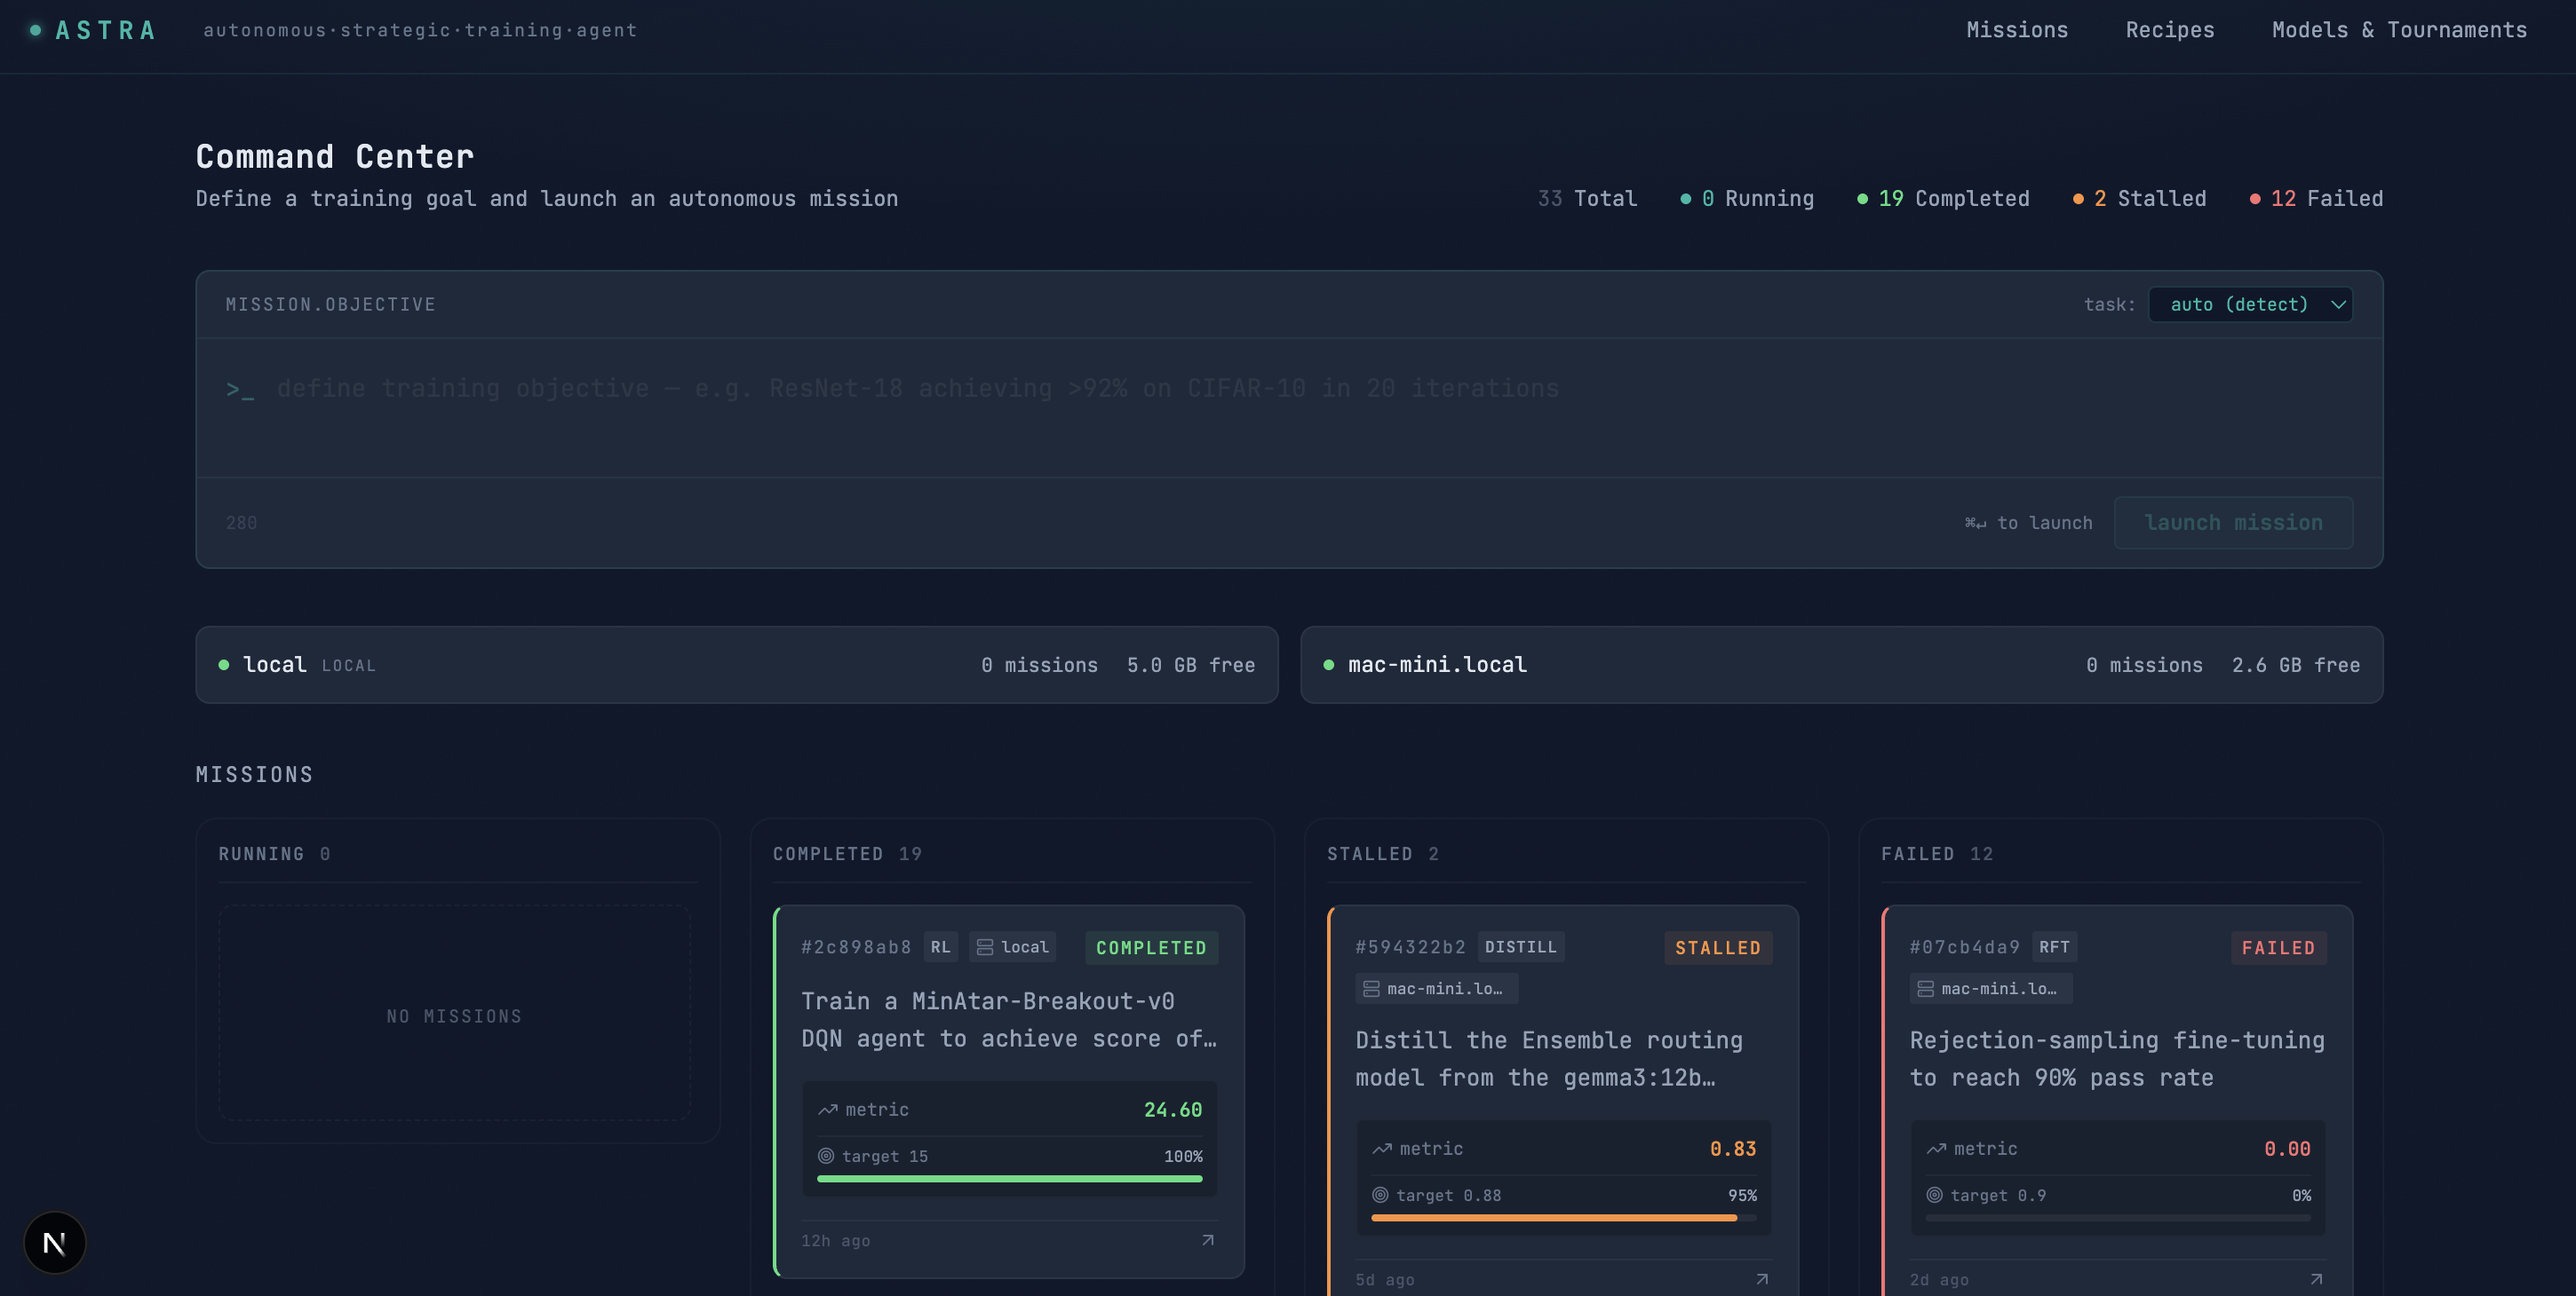
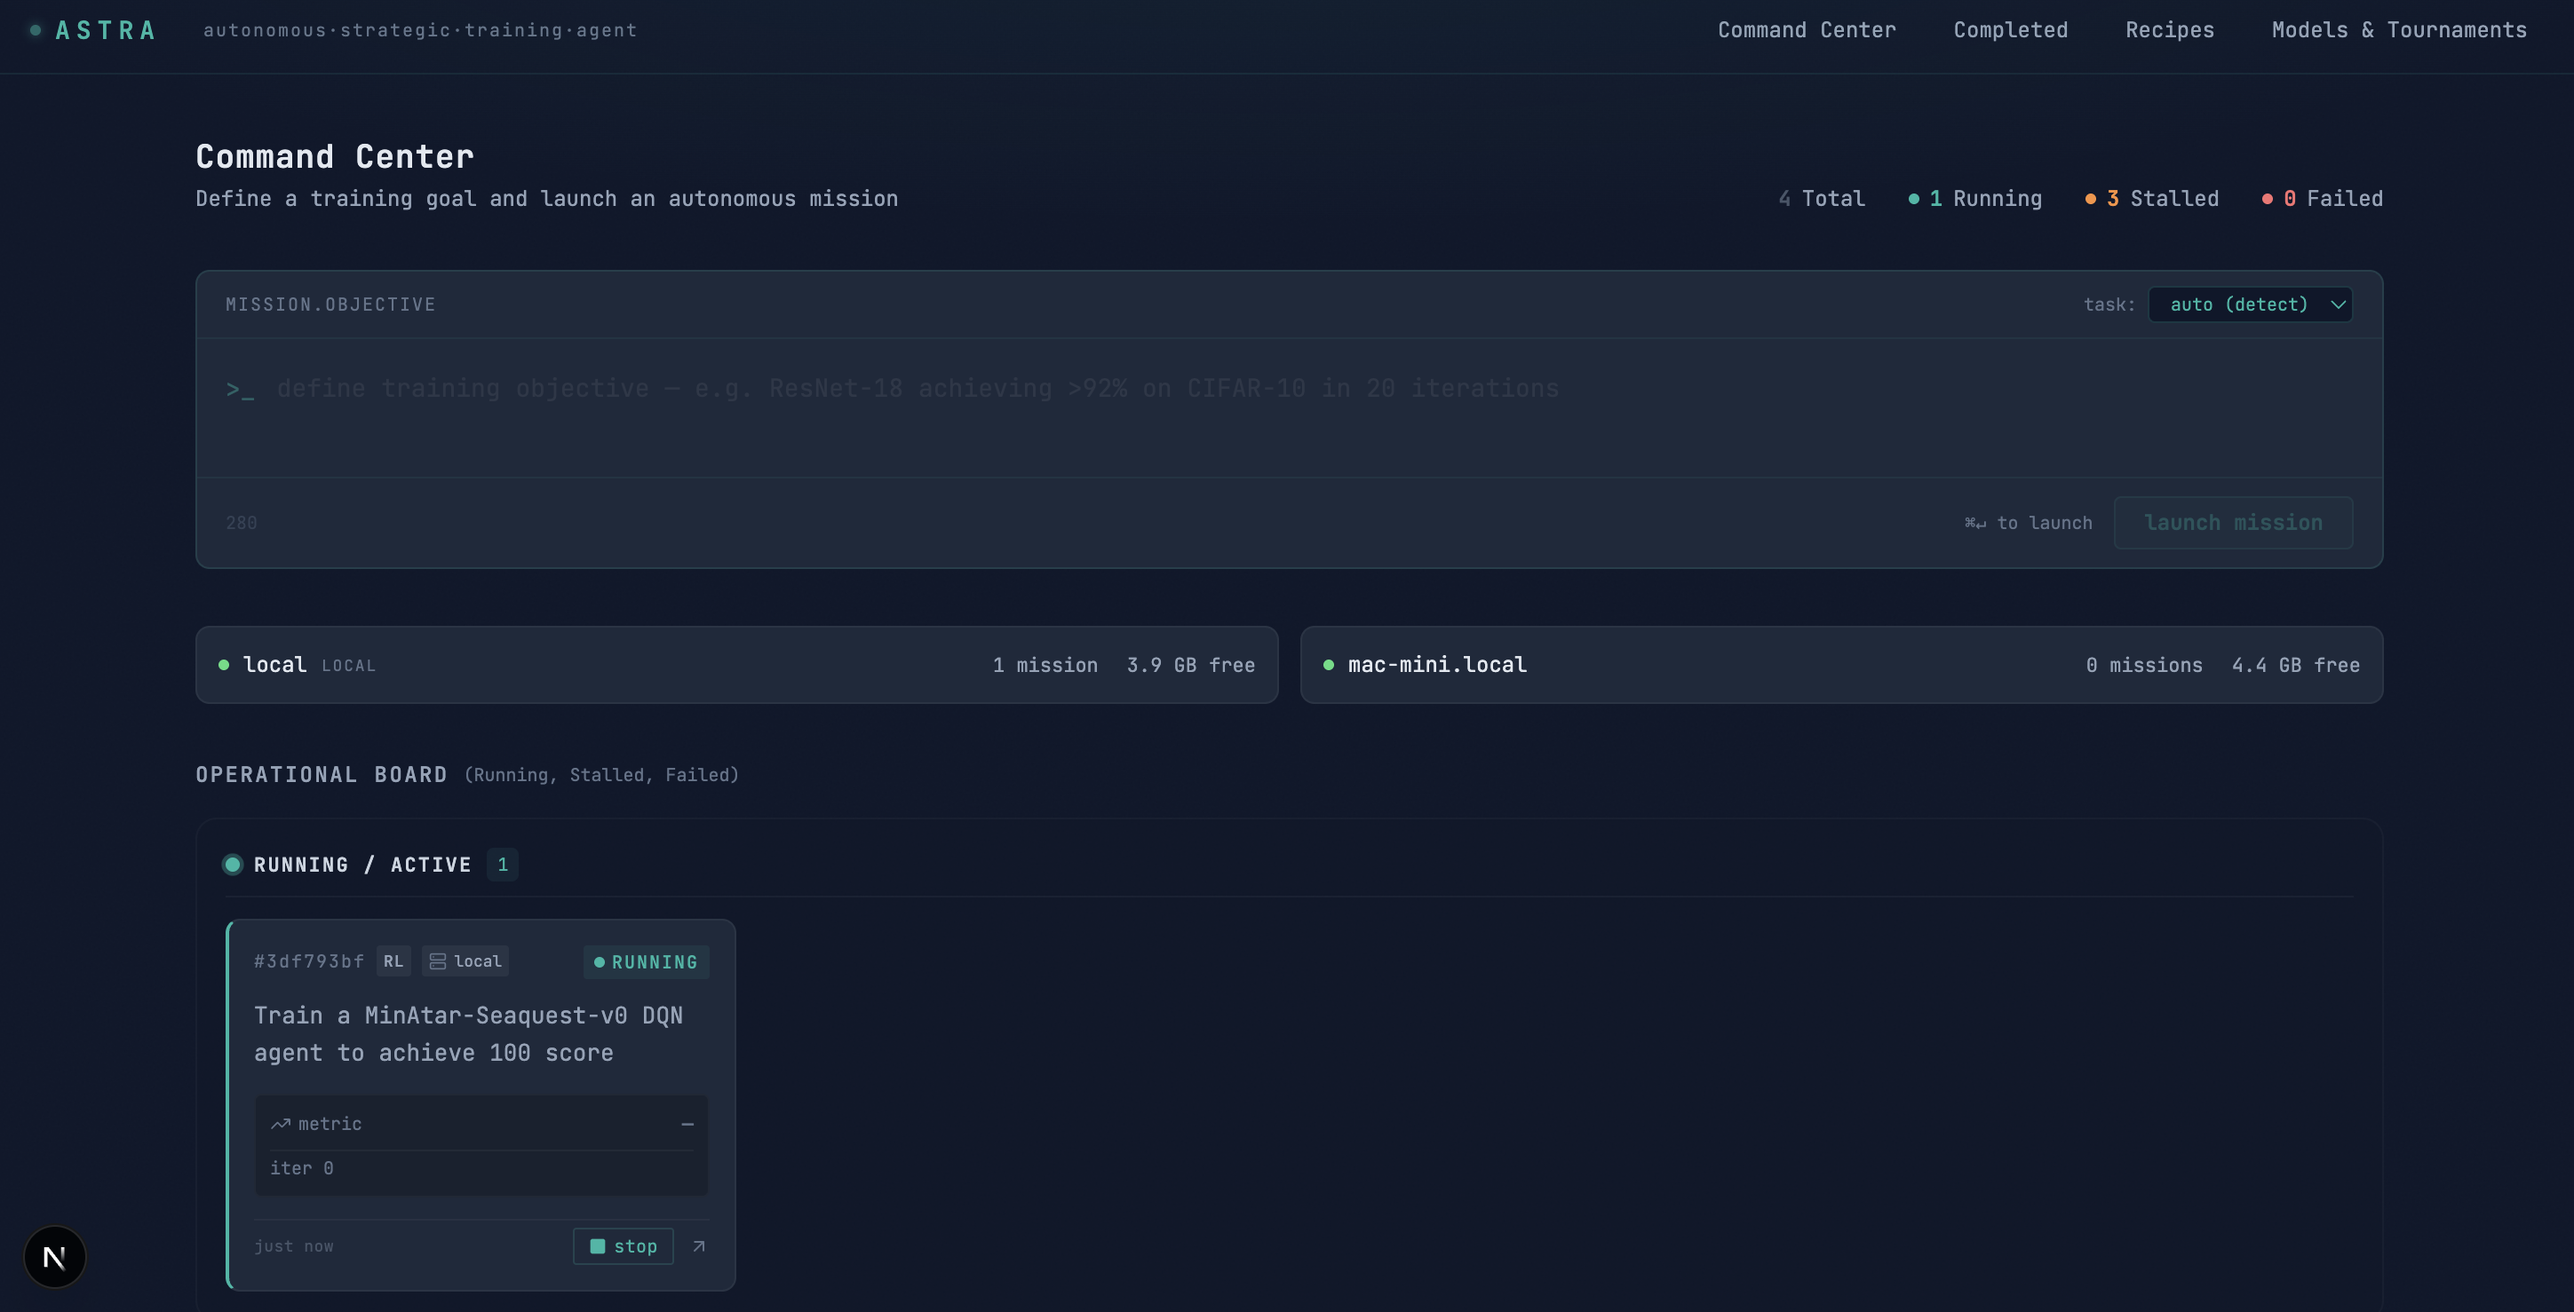
Update Command Center screenshot and synchronize documentation
- Updated docs/screenshots/command_center.png reflecting the new row-based Operational Board.
- Updated README.md feature list with the dedicated Completed Missions Archive & Proof Verification, revised screenshot caption, and updated unit test count to 1,116.
- Updated docs/UX_SPEC.md with Section 2.1 row-based Operational Board specification and Section 2.5 Completed Missions Archive.
- Updated docs/PRD.md with Section 4.22 specifying the Completed Missions Archive and Operational Board layout.

diff --git a/docs/UX_SPEC.md b/docs/UX_SPEC.md
@@ -13,8 +13,12 @@
 
 ### 2.1. The "Command Center" (Home)
 - **Goal Input**: A plain-text input bar for the training goal (e.g. "Train a Snake-v0 PPO agent to achieve mean_reward of 200") paired with a task type selector (`auto (detect)`, `rft`, `distill`, `dpo`, `grpo`, `prompt`, `rl`, `sft`, `ml`, `mlx_lora`). In `auto` mode, the task type is semantically inferred from keywords in the goal text, and backend reconciliation ensures that submitted defaults never misdirect fine-tuning or distillation missions into RL.
-- **Active Missions**: A grid of training-loop cards with status badges (Planning, Running, Evaluating, Completed, Failed, Stalled — converged below target, escalation exhausted). Each card shows the best metric value, current iteration, and its compute node. Cards are grouped into labelled sections in order — **Running** (any non-terminal status), **Failed**, **Stalled**, **Completed** — each with a count; empty sections are hidden; newest-first within each group.
-- **Global Metrics**: A stat row — Total, then Running / Failed / Stalled / Completed mission counts (same order as the card sections).
+- **Operational Board**: A row-based layout of active training-loop cards organized into full-width horizontal sections in workflow priority order:
+  - **Running / Active** (teal indicator with live pulse animation when runs are active; displays a subtle compact indicator when 0 runs are in-flight).
+  - **Stalled / Paused** (orange indicator; rendered dynamically when stalled runs exist, hidden when 0).
+  - **Failed** (red indicator; rendered dynamically when failed runs exist, hidden when 0).
+  Within each active row, missions are arranged in a responsive grid (`grid-cols-1 sm:grid-cols-2 lg:grid-cols-3 xl:grid-cols-4`). Historical completed runs are cleanly moved to the dedicated Completed Missions Archive (`/completed`) to preserve operational clarity.
+- **Global Metrics**: A top-right stat row showing active operational counts: `Total`, `Running`, `Stalled`, and `Failed`.
 
 ### 2.2. Live Training HUD (The "Loop" View)
 - **The Metric Gap**: An arc gauge showing the all-time best metric value. Gap (`−X to close`) and percentage of target sit directly below the arc. For lower-is-better metrics (`eval_loss`, `train_loss`, `perplexity`), the component computes progress inversely (tracking loss reduction toward the target threshold), showing positive convergence progress rather than inverted percentages. If `target_metric` was not explicitly extracted at mission creation, the component extracts the target percentage directly from the mission goal string rather than falling back to an arbitrary constant. Right column shows two lines: "best at iter N" (which iteration achieved the peak) and the current iteration's score when it differs from the best. This makes it unambiguous whether the displayed score is the historical peak or the latest result.
@@ -40,6 +44,15 @@
   - Side-by-side simulation evaluating SB3 and Lookahead PyTorch models on identical seeds.
   - Dynamic Leaderboard displaying Gold 🥇, Silver 🥈, and Bronze 🥉 ranks, Mean Score $\pm$ Std, Min/Max range, Win Rate %, and per-episode score breakdowns.
   - "Crown as Champion" action promoting top performers into production status.
+
+### 2.5. The Completed Missions Archive (`/completed`)
+- **Gallery Layout**: Modeled after the Recipe Library (`/recipes`) with dark glass UI, KPI overview cards, and responsive 3-column card grid (`grid-cols-1 md:grid-cols-2 lg:grid-cols-3`).
+- **Domain Filter Tabs**: 8 category tabs (`All Completed`, `MinAtar`, `Snake`, `Tetris`, `2048`, `LLM & Reasoning`, `AgentGym`, `Classic Control & ML`).
+- **Interactive Search & Sorting**: Real-time filtering across goals, IDs, environments, hosts, and task types; sortable by newest, highest metric score, or fastest duration.
+- **KPI Summary Cards**: Displays Total Completed Runs, Target Pass Rate (% meeting or exceeding target), and Total Iterations Executed across historical runs.
+- **Convergence Cards**: Shows short ID, task type tag, remote/local node host, relative/exact timestamp, goal text, target metric vs achieved best score, progress bar, iterations, duration, and direct actions.
+- **Manifest Verification Modal**: Inspects verifiable requirement manifests loaded directly from `/missions/{id}/manifest` (`score >= target: PASSED`, `clean sandbox exit: PASSED`, `checkpoint saved: PASSED`), evidence strings, and 1-click navigation to Mission HUD.
+
 
 
 ## 3. Technology Stack Recommendation

diff --git a/README.md b/README.md
@@ -10,6 +10,7 @@ ASTRA is an AI agent system that orchestrates end-to-end ML/RL training autonomo
 - **Adaptive Escalating Pivots** — Stalled missions systematically escalate across hyperparameter tuning, network architecture mutations, algorithm switches, and environment reward shaping, with progress persisted across restarts.
 - **Model Registry & Tournament Arena** — Benchmark multiple models head-to-head on identical deterministic seeds (`2000 + ep`), tracking score distributions and tie-split win rates to automatically crown champion policies.
 - **Recipe Library & Lineage Evolution** — Reusable YAML training blueprints with genetic mutation tracking (Lineage DAG), "Golden" recipe distillation from successful runs, and unified mission creation & dispatch with automatic canonical goal formatting (`Train a <env_id> <algo> agent to achieve <target_value> <metric_name>`).
+- **Dedicated Completed Missions Archive & Proof Verification** — Dedicated historical repository (`/completed`) with multi-domain category tabs, instant search, sortable metrics, and verifiable requirement manifests (`score >= target: PASSED`, `clean sandbox exit: PASSED`).
 - **Live Mission HUD & Explainability** — Real-time telemetry, memory gauges, and interactive canvas players streaming frame-by-frame Q-values, action probabilities, and Shannon policy entropy across all environments.
 - **High-Throughput Custom Envs** — Pure Python/NumPy environments (>50k steps/sec) for Snake, Tetris, 2048 (with 1-step lookahead evaluation), and the complete 5-game MinAtar arcade suite (Breakout, Space Invaders, Asteroids, Freeway, Seaquest).
 - **Multi-Paradigm Post-Training & Hybrid Compute** — Supports RL, SFT (with strict held-out validation and reasoning `<think>...</think>` preservation), DPO, GRPO, Distillation, and ML across local Apple Silicon (Metal/MLX) and remote SSH compute nodes with real-time cluster memory visibility.
@@ -19,7 +20,7 @@ ASTRA is an AI agent system that orchestrates end-to-end ML/RL training autonomo
 
 | Command Center | Mission HUD |
 |---|---|
-| ![Command Center — mission grid with status badges and Run button](docs/screenshots/command_center.png) | ![Mission HUD — metric chart, log stream, pivot timeline, Snake live viewer](docs/screenshots/mission_hud.png) |
+| ![Command Center — operational board with priority status rows, active execution tracking, and cluster health](docs/screenshots/command_center.png) | ![Mission HUD — metric chart, log stream, pivot timeline, Snake live viewer](docs/screenshots/mission_hud.png) |
 
 | Metric History (current vs. prior run) | Auto-Approve & Approval Panel |
 |---|---|
@@ -93,7 +94,7 @@ astra/
 │   └── trainers/       # RLTrainer, SFTTrainer, MLTrainer
 ├── frontend/           # Next.js 15 mission control dashboard (port 3200)
 ├── tests/
-│   ├── unit/           # 1111 unit tests across all core modules
+│   ├── unit/           # 1116 unit tests across all core modules
 │   └── integration/    # 20 integration tests for the loop state machine and stress test suites
 ├── alembic/            # Database migrations
 ├── envs/               # Custom Gymnasium environments (Snake-v0, Tetris-v0, Game2048-v0, MinAtar Suite, AgentGym)

diff --git a/docs/PRD.md b/docs/PRD.md
@@ -134,6 +134,10 @@ Manual ML training is repetitive and error-prone. Engineers often spend hours:
 - **Strict Recipe Locking**: Hardened code generation and hyperparameter resolution that strictly lock hardware-critical settings (batch size, layer count, dataset path) to recipe specifications, preventing planner hallucinations from triggering Apple Silicon Metal OOM crashes.
 - **Lower-is-Better Metric Visualizations**: Comprehensive telemetry and dashboard support for loss minimization goals, displaying accurate remaining metric gaps and progress percentages toward convergence.
 
+### 4.22. Completed Missions Archive & Row-Based Operational Board
+- **Dedicated Completed Missions Archive (`/completed`)**: A dedicated historical repository modeled after the Recipe Library, featuring domain category filtering, full-text search, sortable metrics, and verifiable requirement manifests (`score >= target: PASSED`, `clean sandbox exit: PASSED`, `checkpoint saved: PASSED`).
+- **Operational Board Row Layout**: The Command Center separates historical completed runs from active workflows, presenting operational tasks in full-width horizontal status rows (`Running / Active`, `Stalled / Paused`, `Failed`) with responsive mission cards, keeping operator focus strictly on in-flight and attention-needed tasks.
+
 ## 5. User Experience & Autonomy Model
 
 
